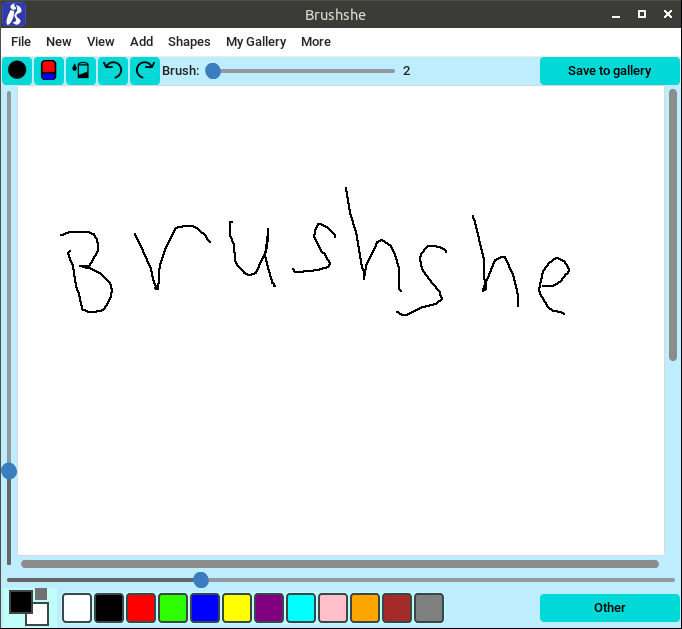
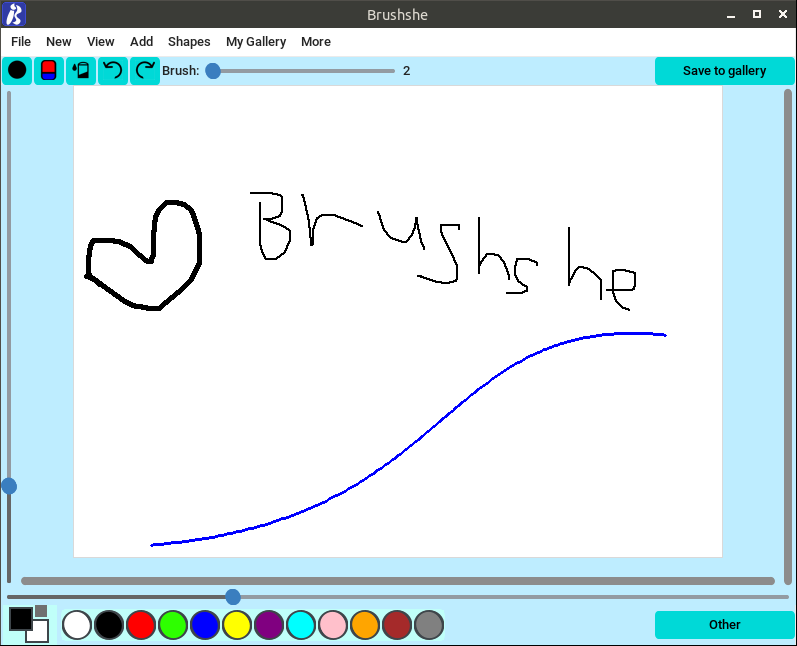
Version 1.12.0 - more beautiful palette, fixed optionmenu button color, added reset zoom button, optimized canvas update, ability to mouse scroll canvas

diff --git a/Brushshe/brushshe.py b/Brushshe/brushshe.py
@@ -130,6 +130,8 @@ class Brushshe(ctk.CTk):
         view_dropdown = CustomDropdownMenu(widget=view_menu)
         view_dropdown.add_option(option=self._("Zoom In"), command=self.zoom_in)
         view_dropdown.add_option(option=self._("Zoom Out"), command=self.zoom_out)
+        view_dropdown.add_separator()
+        view_dropdown.add_option(option=self._("Reset"), command=self.reset_zoom)
 
         add_menu = menu.add_cascade(self._("Add"))
         add_dropdown = CustomDropdownMenu(widget=add_menu)
@@ -147,7 +149,6 @@ class Brushshe(ctk.CTk):
         shape_options = ["Rectangle", "Oval", "Line", "Fill rectangle", "Fill oval"]
         for shape in shape_options:
             shapes_dropdown.add_option(option=self._(shape), command=lambda shape=shape: self.create_shape(shape))
-        shapes_dropdown.add_separator()
         shapes_dropdown.add_option(option=self._("Bezier curve"), command=self.bezier_shape)
 
         menu.add_cascade(self._("My Gallery"), command=self.show_gallery)
@@ -284,11 +285,12 @@ class Brushshe(ctk.CTk):
             tmp_btn = ctk.CTkButton(
                 self.palette_widget,
                 fg_color=color,
-                hover_color=color,
+                hover=False,
                 text=None,
                 width=30,
                 height=30,
                 border_width=2,
+                corner_radius=100,
                 command=lambda c=color: self.change_color(c),
             )
             tmp_btn.pack(side=ctk.LEFT, padx=1, pady=1)
@@ -419,6 +421,11 @@ class Brushshe(ctk.CTk):
             self.zoom -= 1
         else:
             self.zoom = 1
+        self.update_canvas()
+        self.force_resize_canvas()
+
+    def reset_zoom(self, event=None):
+        self.zoom = 1
         self.update_canvas()
         self.force_resize_canvas()
 
@@ -1088,7 +1095,7 @@ class Brushshe(ctk.CTk):
         )
         about_msg = CTkMessagebox(
             title=self._("About program"),
-            message=about_text + "v1.11.1",
+            message=about_text + "v1.12.0",
             icon=resource("icons/brucklin.png"),
             icon_size=(150, 191),
             option_1="OK",

diff --git a/README.md b/README.md
@@ -38,7 +38,7 @@ You can choose a color, change the brush thickness, and paint. You can change ca
 ### Save to device
 You can save picture to your PC in different formats (PNG, JPG, GIF, BMP, TIFF, WEBP, ICO, PPM, PGM, PBM).
 ### Undo and redo
-You can undo and redo 10 last actions. There are buttons on toolbar and hotkeys (Ctrl+Z - undo, Ctrl+Y - redo).
+You can undo and redo 10 last actions.
 ### Eraser
 Removing excess with an eraser.
 ### Fill
@@ -58,7 +58,7 @@ Rectangle and oval (with or without fill), line, bezier curve.
 ### Effects
 Blur, detail, contour, grayscale, inversion and other. Not work on GIF images.
 ### My Gallery
-Window showing images drawn in Brushshe and "saved to gallery". Images from the gallery are stored in `<user_home_folder>/Pictures/Brushshe Images` or `<user_home_folder>/Brushshe Images` on some minimalistic Linux distributions. For saving there is a button "Save to gallery" in toolbar and hotkey Ctrl+S.
+Window showing images drawn in Brushshe and "saved to gallery". Images from the gallery are stored in `<user_home_folder>/Pictures/Brushshe Images` or `<user_home_folder>/Brushshe Images` on some minimalistic Linux distributions.
 ### Dark theme
 There is a system, light and dark theme.
 ### Rotate
@@ -66,7 +66,18 @@ Rotate right, rotate left.
 ### Create screenshot
 You can take a screenshot and draw on it. Not work on Linux with Wayland.
 ### View (beta)
-Zoom in, zoom out.
+Zoom in, zoom out, reset zoom.
+
+## Hotkeys
++ *Ctrl+Z*: undo
++ *Ctrl+Y*: redo
++ *Ctrl+S*: save to gallery
++ *X*: flip colors
++ *B*: brush
++ *E*: eraser
++ *=*: zoom in
++ *-*: zoom out
++ *Shift + mouse scroll*: scrolling the canvas horizontally
 
 ## Goal of project
 The goal of the project is to provide a open-source, convenient, beautiful and multifunctional painting app using the CustomTkinter toolkit.
